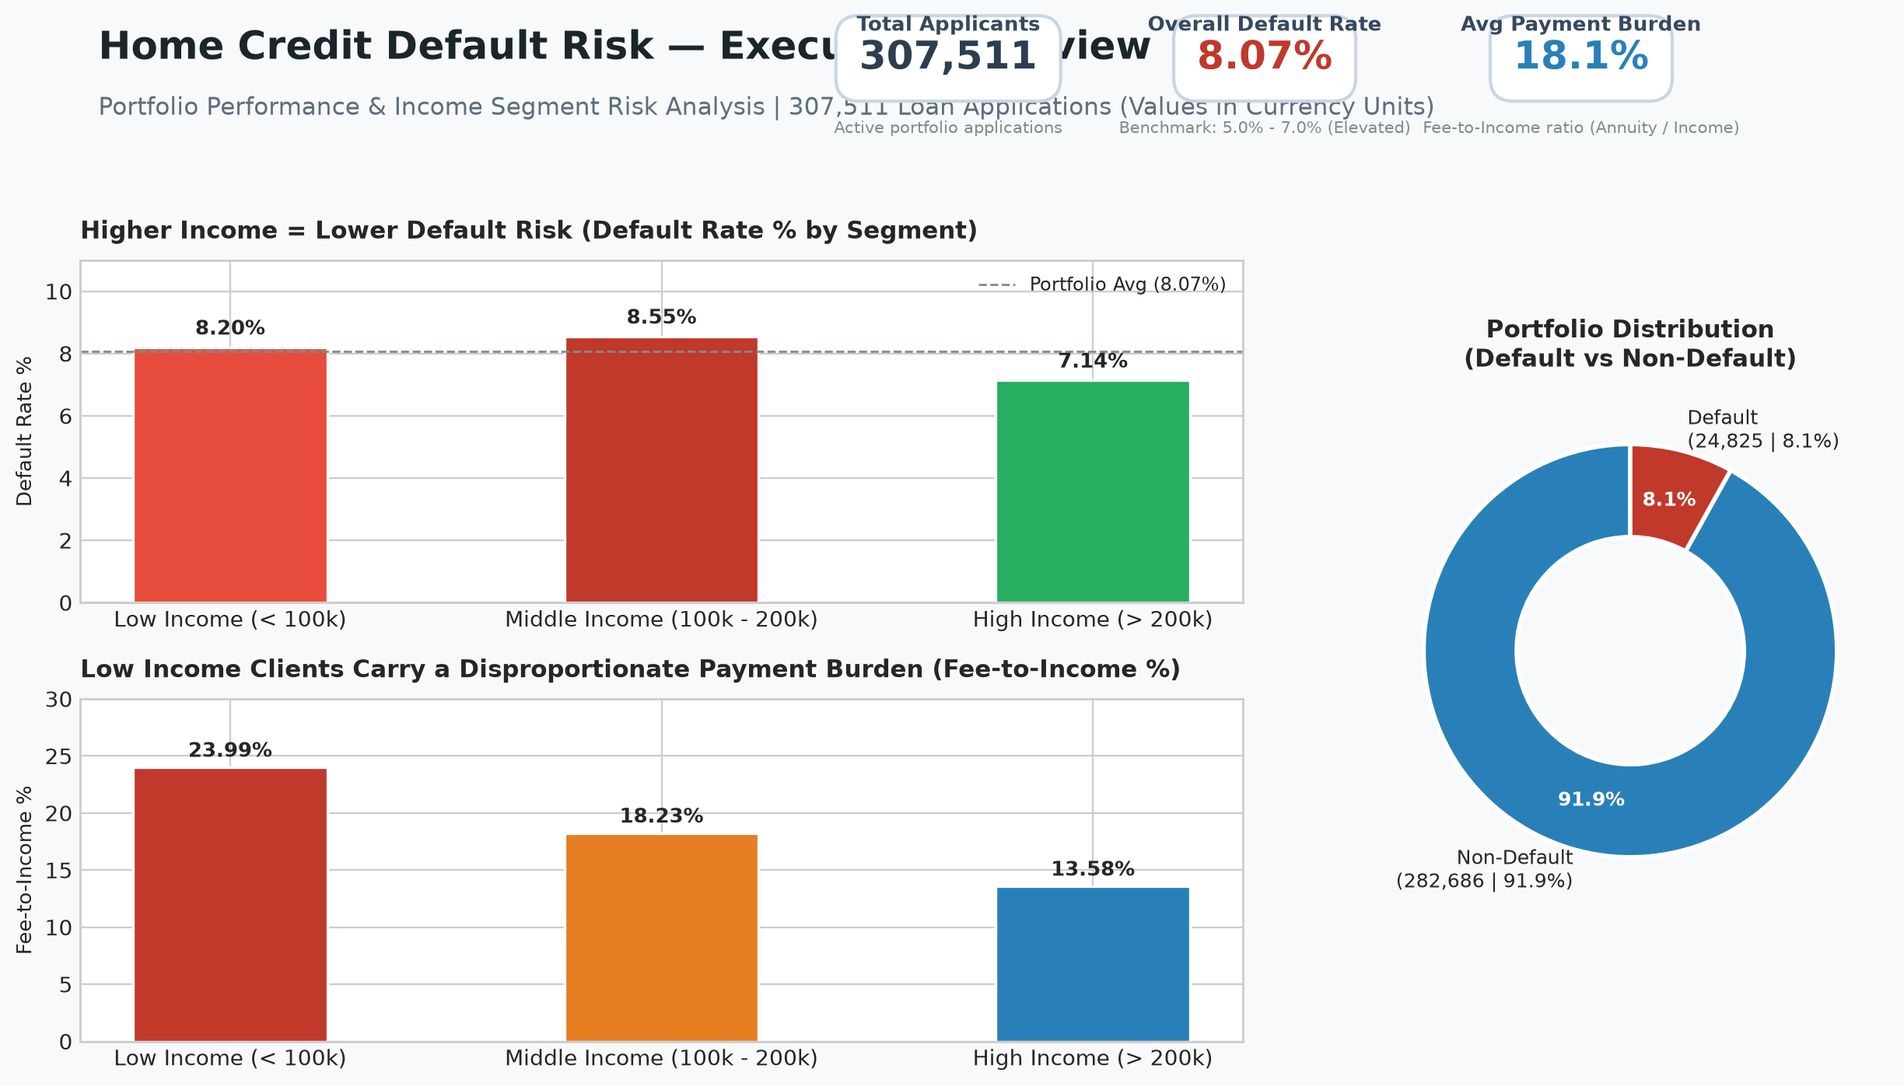
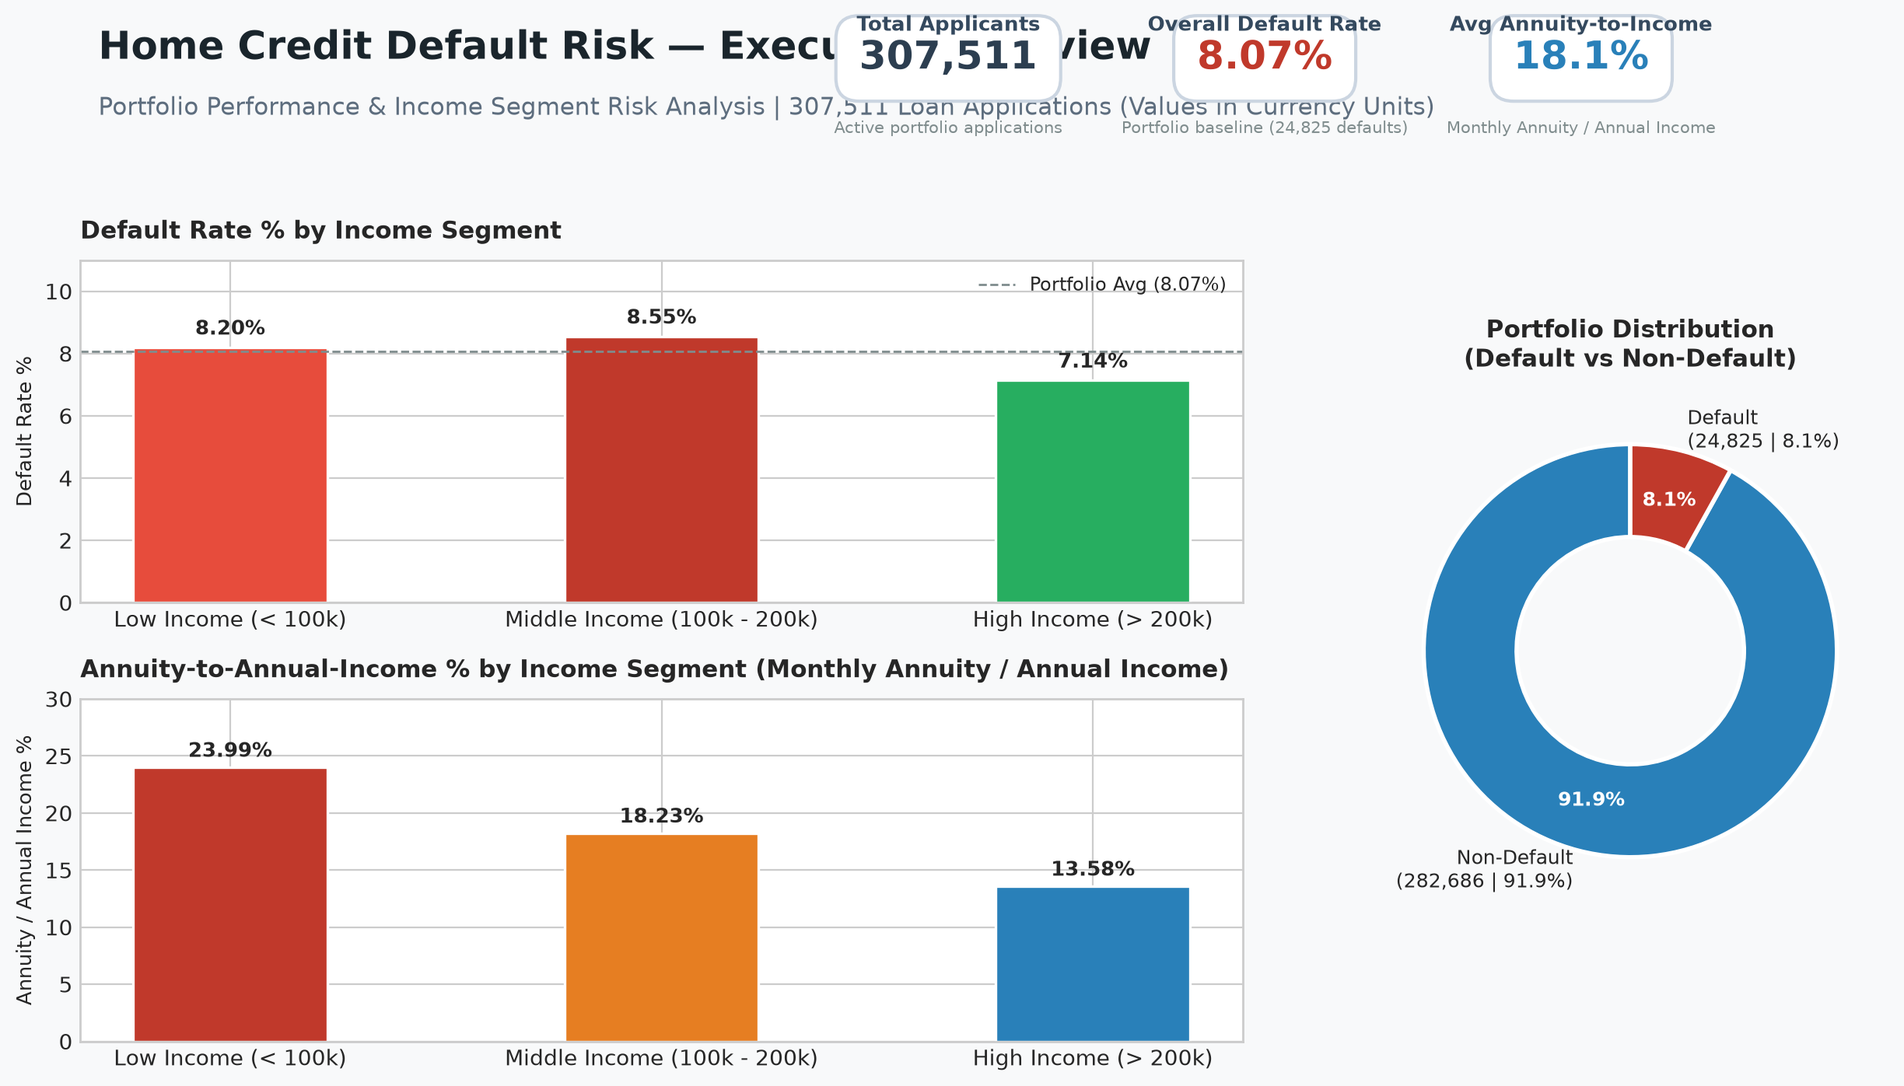
fix: restore attribution, clarify Annuity-to-Annual-Income periodicity, and remove unsourced benchmark claims

diff --git a/README.md b/README.md
@@ -32,7 +32,7 @@ An end-to-end descriptive and diagnostic credit risk analytics project evaluatin
 ## 1. Business Problem & Analytical Objectives
 
 ### Business Problem
-A non-bank financial institution providing consumer credit to underbanked applicants experiences an elevated portfolio default rate of **8.07%** (significantly above typical retail banking benchmarks of 5.0%–7.0%). Blanket underwriting criteria fail to differentiate between safe applicants and borrowers facing structural debt service distress. 
+A non-bank financial institution providing consumer credit to underbanked applicants experiences an overall portfolio default rate of **8.07%** across 307,511 loan applications. Blanket underwriting criteria fail to differentiate between safe applicants and borrowers facing structural debt service distress. 
 
 ### Analytical Objectives
 1. **Benchmark Portfolio Quality:** Quantify default rate distributions and identify class imbalance across 307,511 active applications.
@@ -42,13 +42,14 @@ A non-bank financial institution providing consumer credit to underbanked applic
 
 ---
 
-## 2. Dataset Overview & Scope
+## 2. Dataset Overview & Project Lineage
 
 * **Source:** [Home Credit Default Risk (Kaggle Competition)](https://www.kaggle.com/competitions/home-credit-default-risk)
 * **Primary Table:** `application_train.csv` (307,511 rows × 122 columns)
 * **Target Metric:** `TARGET` (Binary: `0` = Loan repaid on time, `1` = Client encountered payment difficulty / defaulted)
 * **Monetary Units:** All monetary values (`AMT_INCOME_TOTAL`, `AMT_CREDIT`, `AMT_ANNUITY`, `AMT_GOODS_PRICE`) represent raw dataset currency units as provided in the source competition dataset.
-* **Author:** Mridul Rajgaria
+* **Project Lineage & Attribution:** Builds upon the exploratory workflow and Power BI dashboard structure originally conceived by **Estefania Marcel** ([tefimarcel/credit-risk-analysis](https://github.com/tefimarcel/credit-risk-analysis)). All analytical code, SQL queries, visualizations, and documentation in this repository have been independently refactored, extended, and standardized by Mridul Rajgaria.
+* **Maintainer:** Mridul Rajgaria
 
 ---
 
@@ -105,7 +106,7 @@ Borrower-Default-Risk-Analytics-on-Home-Credit-Data/
 * **Income Outliers:** Gross annual income ranges up to 117,000,000 units against a median of 147,150 units. To prevent distortions, analysis leverages categorizations (`Low`, `Middle`, `High`).
 
 ### Derived Financial Metrics
-* **`fee_to_income_pct`**: Monthly installment burden computed as `(AMT_ANNUITY / AMT_INCOME_TOTAL) * 100`.
+* **`fee_to_income_pct` (Annuity-to-Annual-Income Ratio):** Calculated as `(AMT_ANNUITY / AMT_INCOME_TOTAL) * 100`. Note on dataset periodicity: According to the official Home Credit data dictionary, `AMT_ANNUITY` represents the **monthly loan installment** while `AMT_INCOME_TOTAL` represents total declared **annual gross income**. This metric therefore evaluates the proportion of annual income required to service a single monthly installment.
 * **`income_segment`** (denominated in currency units):
   * Low Income: `< 100,000` (20.7% of borrowers)
   * Middle Income: `100,000 – 200,000` (50.7% of borrowers)
@@ -184,12 +185,12 @@ ORDER BY income_tier, default_rate_pct DESC;
 
 ### Default Rate & Payment Burden by Income Segment
 ![Income Segment Risk Analysis](images/income_segment_risk_analysis.png)
-* Low-income borrowers bear an average **fee-to-income ratio of 23.99%**, compared to only **13.58%** for high-income applicants.
+* Low-income borrowers exhibit an average **Annuity-to-Annual-Income ratio of 23.99%**, compared to only **13.58%** for high-income applicants.
 * Middle-income applicants generate the largest nominal volume of defaults (13,326 defaults; 8.55% default rate).
 
 ### Top Riskiest Occupations
 ![Top Riskiest Occupations](images/top_riskiest_occupations.png)
-* `Low-skill Laborers` display the highest default rate across the entire portfolio at **17.15%** (more than 2x the 8.07% benchmark).
+* `Low-skill Laborers` display the highest default rate across the entire portfolio at **17.15%** (more than 2x the 8.07% portfolio baseline).
 * `Drivers` (**11.33%**) and `Waiters/barmen staff` (**11.28%**) exhibit elevated default rates driven by volatile disposable income.
 
 ### Correlation Matrix of Key Risk Variables
@@ -207,15 +208,15 @@ The interactive Power BI file ([`dashboard/credit_risk_dashboard.pbix`](dashboar
 
 ### Page 1: Credit Risk Overview
 ![Illustrative Dashboard Layout Preview: Page 1 — Credit Risk Overview](images/dashboard_page1_overview.png)
-* **KPI Header:** Tracks Total Applicants (`307,511`), Overall Default Rate (`8.07%`), and Average Payment Burden (`18.1%`).
+* **KPI Header:** Tracks Total Applicants (`307,511`), Overall Default Rate (`8.07%`), and Average Annuity-to-Annual-Income Ratio (`18.1%`).
 * **Visuals:** Income segment default rates, payment burden breakdown, and target distribution donut chart.
 
 ### Page 2: Behavioral Risk Signals
 ![Illustrative Dashboard Layout Preview: Page 2 — Behavioral Risk Signals](images/dashboard_page2_behavioral_signals.png)
-* **Risk Stratification:** 10 riskiest occupations mapped against the 8.07% portfolio benchmark.
+* **Risk Stratification:** 10 riskiest occupations mapped against the 8.07% portfolio baseline.
 * **Credit Inquiries:** Default rates grouped by annual bureau inquiries (`0`, `1–3`, `4–6`, `7+`).
 
-> For full DAX calculations and data refresh steps, refer to [dashboard/README.md](dashboard/README.md).
+> For full DAX calculations, data refresh steps, and an independent clean-room build guide, refer to [dashboard/README.md](dashboard/README.md).
 
 ---
 
@@ -223,9 +224,9 @@ The interactive Power BI file ([`dashboard/credit_risk_dashboard.pbix`](dashboar
 
 | Metric / Segment | Empirical Result | Business Implication |
 | :--- | :--- | :--- |
-| **Portfolio Default Rate** | **8.07%** (24,825 defaults) | Above industry baseline (5%–7%), requiring portfolio risk management. |
-| **Low-Income Payment Burden** | **24.0%** fee-to-income ratio | Nearly 1.8x the debt service burden of high-income clients (13.6%). |
-| **Defaulter Loan Characteristics** | Defaulters borrow **557,779 vs 602,648 units** | Defaults correlate with payment strain relative to income, not principal size. |
+| **Portfolio Default Rate** | **8.07%** (24,825 defaults) | Foundational portfolio baseline across 307,511 active applications. |
+| **Low-Income Payment Burden** | **24.0%** Annuity-to-Annual-Income | One monthly payment consumes nearly a quarter of annual income (vs. 13.6% for high-income clients). |
+| **Defaulter Loan Characteristics** | Defaulters borrow **557,779 vs 602,648 units** | Defaults correlate with payment strain relative to income, not principal size alone. |
 | **Highest Risk Occupation** | Low-skill Laborers: **17.15% default** | More than double the portfolio baseline (2.12x risk multiplier). |
 | **Credit Bureau Search Velocity** | 7+ inquiries: **9.28% default rate** | 30.1% higher risk than borrowers with 0 inquiries (7.13%). |
 | **Contract Type Variance** | Cash loans: **8.35%** vs Revolving: **5.48%** | Selection bias: revolving loans apply stricter pre-screening filters. |
@@ -286,8 +287,9 @@ jupyter notebook notebooks/credit_risk_analysis.ipynb
 
 ---
 
-## 13. License & Scope of Terms
+## 13. License, Attribution & Scope of Terms
 
-* **Source Code & Documentation:** All analytical code, SQL queries, Jupyter notebook source code, and written documentation in this repository are distributed under the **[MIT License](LICENSE)**.
-* **Dataset Terms:** The underlying Home Credit Default Risk dataset is governed by the [Kaggle Competition Rules and Terms of Use](https://www.kaggle.com/competitions/home-credit-default-risk/rules). This repository does not redistribute or convey proprietary rights to the raw competition data.
-* **Author:** **Mridul Rajgaria** ([GitHub](https://github.com/mridulrajgaria))
+* **Source Code & Documentation:** All analytical code, SQL queries, Jupyter notebook source code, and written documentation authored by Mridul Rajgaria in this repository are distributed under the **[MIT License](LICENSE)**.
+* **Upstream Lineage & Attribution:** Conceptual exploratory workflow and Power BI structure created by **Estefania Marcel** ([tefimarcel/credit-risk-analysis](https://github.com/tefimarcel/credit-risk-analysis)). The original repository was published without an explicit root open source license. The file `dashboard/credit_risk_dashboard.pbix` is preserved for non-commercial educational review with full attribution; independent recreation specifications are documented in [`dashboard/README.md`](dashboard/README.md).
+* **Dataset Terms:** The underlying Home Credit Default Risk dataset is governed by the [Kaggle Competition Rules and Terms of Use](https://www.kaggle.com/competitions/home-credit-default-risk/rules). This repository does not redistribute or convey proprietary rights to raw competition data.
+* **Author & Maintainer:** **Mridul Rajgaria** ([GitHub](https://github.com/mridulrajgaria))

diff --git a/dashboard/README.md b/dashboard/README.md
@@ -2,7 +2,7 @@
 
 ## Executive Summary
 
-The interactive Power BI dashboard (`credit_risk_dashboard.pbix`) provides executive-level monitoring and diagnostic drill-downs into the credit performance of **307,511 loan applications** from Home Credit.
+The Power BI dashboard (`credit_risk_dashboard.pbix`) provides interactive monitoring and diagnostic drill-downs into the credit risk performance of **307,511 loan applications** from the Home Credit Default Risk dataset.
 
 It is structured into two core analytical views:
 1. **Page 1: Credit Risk Overview** — High-level portfolio KPIs, default distribution, and income segment payment-burden metrics.
@@ -12,7 +12,7 @@ It is structured into two core analytical views:
 
 ## Dashboard Architecture & Views
 
-> **Note on Visual Previews:** The figures below are **illustrative layout previews** reconstructed directly from the Power BI report specifications, data model schema, and underlying portfolio metrics. The live, interactive report is preserved in [`credit_risk_dashboard.pbix`](credit_risk_dashboard.pbix). All monetary quantities reflect dataset currency units as provided in the source data.
+> **Note on Visual Previews:** The figures below are **illustrative layout previews** reconstructed directly from the Power BI report specifications, data model schema, and underlying portfolio metrics. The live, interactive report is preserved in [`credit_risk_dashboard.pbix`](credit_risk_dashboard.pbix). All monetary quantities reflect dataset currency units as provided in the source competition data.
 
 ### Page 1: Credit Risk Overview
 ![Illustrative Dashboard Layout Preview: Page 1 — Credit Risk Overview](../images/dashboard_page1_overview.png)
@@ -20,18 +20,18 @@ It is structured into two core analytical views:
 #### Visual Elements:
 * **KPI Card 1: Total Applicants**
   * *Metric:* `307,511`
-  * *Business Context:* Total evaluated portfolio population.
+  * *Context:* Total evaluated active portfolio loan applications.
 * **KPI Card 2: Overall Default Rate**
-  * *Metric:* `8.07%` (24,825 defaulters)
-  * *Business Context:* Baseline benchmark (exceeds typical prime retail banking benchmarks of 5.0% - 7.0%).
-* **KPI Card 3: Average Payment Burden**
-  * *Metric:* `18.1%` (Fee-to-Income / Annuity-to-Income)
-  * *Business Context:* Average share of monthly income dedicated to servicing the loan installment.
+  * *Metric:* `8.07%` (24,825 defaults)
+  * *Context:* Observed baseline portfolio default rate across all applicants.
+* **KPI Card 3: Avg Annuity-to-Annual-Income Ratio**
+  * *Metric:* `18.1%` (Calculated as `AMT_ANNUITY / AMT_INCOME_TOTAL * 100`)
+  * *Context:* Evaluates the size of a single monthly installment (`AMT_ANNUITY`) relative to total annual income (`AMT_INCOME_TOTAL`).
 * **Clustered Bar Chart: Default Rate % by Income Segment**
   * Low Income (< 100,000): **8.20%**
   * Middle Income (100,000 - 200,000): **8.55%**
   * High Income (> 200,000): **7.14%**
-* **Clustered Bar Chart: Payment Burden (Fee-to-Income %) by Income Segment**
+* **Clustered Bar Chart: Annuity-to-Annual-Income % by Income Segment**
   * Low Income: **23.99%**
   * Middle Income: **18.23%**
   * High Income: **13.58%**
@@ -46,7 +46,7 @@ It is structured into two core analytical views:
 
 #### Visual Elements:
 * **Horizontal Bar Chart: Top 10 Riskiest Occupations by Default Rate %**
-  * Includes a benchmark reference line at **8.07%** (portfolio average).
+  * Includes a benchmark reference line at **8.07%** (portfolio baseline).
   * *Low-skill Laborers:* **17.15%** (2.1x portfolio baseline)
   * *Drivers:* **11.33%**
   * *Waiters/barmen staff:* **11.28%**
@@ -60,7 +60,20 @@ It is structured into two core analytical views:
   * *No Inquiries (0):* **7.13%** (71,801 clients)
   * *Low (1–3):* **7.74%** (147,225 clients)
   * *Medium (4–6):* **8.42%** (39,733 clients)
-  * *High (7+):* **9.28%** (7,233 clients — 30% default surge over 0 inquiries)
+  * *High (7+):* **9.28%** (7,233 clients)
+
+---
+
+## Understanding the Payment-Burden Metric
+
+A critical technical distinction in this dataset involves the definition of `AMT_ANNUITY` and `AMT_INCOME_TOTAL`:
+* **`AMT_INCOME_TOTAL`**: Represents total declared **annual income** of the applicant.
+* **`AMT_ANNUITY`**: Represents the loan annuity, which in the Home Credit consumer lending dataset is the **monthly loan installment** due.
+* **Metric Definition:** The ratio `(AMT_ANNUITY / AMT_INCOME_TOTAL) * 100` measures **one monthly installment as a percentage of total annual income**.
+* **Interpretation:** 
+  * For low-income borrowers, an average ratio of **23.99%** indicates that **a single monthly payment consumes nearly a quarter of their annual income**. 
+  * If annualized (multiplying the monthly annuity by 12), the annual debt service obligation would be `23.99% * 12 = 287.9%` of annual income if sustained for 12 months, highlighting acute debt overhang.
+  * To avoid misleading labeling, this metric is formally designated as the **Annuity-to-Annual-Income Ratio** rather than a simple monthly budget share.
 
 ---
 
@@ -82,7 +95,7 @@ CALCULATE(
 Default Rate % = 
 DIVIDE([Total Defaults], [Total Clients], 0) * 100
 
-Avg Fee to Income % = 
+Avg Annuity to Income % = 
 AVERAGE('credit_risk_powerbi'[fee_to_income_pct])
 
 Avg Credit Amount = 
@@ -121,15 +134,23 @@ SWITCH(
 
 ---
 
-## Technical Specifications & How to Open
+## Attribution, Licensing & Independent Build Guide
 
-* **File:** `credit_risk_dashboard.pbix`
-* **File Size:** ~6.4 MB (contains embedded VertiPaq database with the processed dataset)
-* **Compatibility:** Microsoft Power BI Desktop (Windows 10/11)
-* **Data Refresh Instructions:**
-  1. Open `dashboard/credit_risk_dashboard.pbix` in Microsoft Power BI Desktop.
-  2. If repointing to a newly generated `credit_risk_powerbi.csv`:
-     * Go to **Home > Transform Data > Data Source Settings**.
-     * Select the file source and update the path to your local `data/credit_risk_powerbi.csv`.
-     * Click **Apply Changes**.
-  3. All visuals, DAX measures, and filters will automatically update.
+### Upstream Attribution
+The dashboard design concept, KPI cards, and two-page visual structure were originally conceived by **Estefania Marcel** ([tefimarcel/credit-risk-analysis](https://github.com/tefimarcel/credit-risk-analysis)). The original repository was published without an explicit root open-source license. The file `credit_risk_dashboard.pbix` is preserved here for non-commercial educational review and demonstration with attribution.
+
+### Independent Dashboard Recreation (Clean-Room Workflow)
+For users who prefer to build or deploy the dashboard completely independently without redistributing third-party binaries:
+1. **Generate Data Source:**
+   * Run the data preparation cell in [`notebooks/credit_risk_analysis.ipynb`](../notebooks/credit_risk_analysis.ipynb).
+   * This exports `data/credit_risk_powerbi.csv` (307,511 rows containing all necessary attributes and calculated columns).
+2. **Import into Power BI Desktop:**
+   * Open Power BI Desktop (free download for Windows).
+   * Select **Get Data > Text/CSV** and select `credit_risk_powerbi.csv`.
+   * Click **Load**.
+3. **Add DAX Measures:**
+   * In the modeling tab, create the measures listed in the [DAX Measures](#dax-measures--calculated-columns) section above.
+4. **Recreate Visuals:**
+   * **Page 1:** Add 3 KPI Cards (`Total Clients`, `Default Rate %`, `Avg Annuity to Income %`), two clustered bar charts for `Default Rate %` and `Avg Annuity to Income %` by `income_segment`, and a donut chart for `default_label`.
+   * **Page 2:** Add a horizontal bar chart of `Default Rate %` by `OCCUPATION_TYPE` (top 10 filtered with constant reference line at 8.07%) and a column chart of `Default Rate %` by `inquiries_tier`.
+5. **Save:** Save the file as your own independent `.pbix` report.

diff --git a/reports/key_findings.md b/reports/key_findings.md
@@ -9,7 +9,7 @@
 
 ## 1. Executive Summary
 
-This report synthesizes empirical findings from a credit risk evaluation of **307,511 consumer loan applications**. The overall portfolio exhibits an **8.07% default rate** (24,825 non-performing loans), which sits substantially above conventional prime retail banking benchmarks (5.0% – 7.0%). 
+This report synthesizes empirical findings from a credit risk evaluation of **307,511 consumer loan applications**. The overall portfolio exhibits an **8.07% default rate** (24,825 non-performing loans), serving as the baseline benchmark against which all borrower sub-segments are analyzed.
 
 The primary business challenge is that uniform loan origination standards expose the institution to outsized credit losses, particularly among low-income earners, specific vulnerable labor occupations, and borrowers demonstrating repeated credit-seeking stress.
 
@@ -25,17 +25,20 @@ By applying structured SQL segmentation, debt-burden ratio analysis, and behavio
 * **Defaulted Loans (`TARGET = 1`):** 24,825 (8.07%)
 * **Diagnostic Implication:** The strong 92:8 class imbalance underscores that aggregate performance metrics can mask pockets of severe risk. Credit scoring cannot rely on naive approval rules; granular policy cutoffs are required.
 
-### Finding 2: The Payment-Burden Paradox Across Income Tiers
-Analysis of monthly debt servicing relative to annual gross income (`fee_to_income_pct = (AMT_ANNUITY / AMT_INCOME_TOTAL) * 100`) reveals an acute structural vulnerability across income segments:
+### Finding 2: Payment Burden: Annuity-to-Annual-Income Dynamics
+A critical dimension of borrower capacity is evaluating regular loan installments against declared income. In the Home Credit dataset schema:
+* `AMT_INCOME_TOTAL` represents total declared **annual income**.
+* `AMT_ANNUITY` represents the **monthly loan installment** amount.
+* The ratio `(AMT_ANNUITY / AMT_INCOME_TOTAL) * 100` calculates the **Annuity-to-Annual-Income Ratio** (the percentage of annual income absorbed by a single monthly payment).
 
-| Income Tier | Annual Income Range (Units) | Borrower Volume | Default Rate | Avg Fee-to-Income % | Avg Loan Size (Units) |
+| Income Tier | Annual Income Range (Units) | Borrower Volume | Default Rate | Avg Annuity-to-Annual-Income % | Avg Loan Size (Units) |
 | :--- | :--- | :--- | :--- | :--- | :--- |
 | **Low Income** | < 100,000 | 63,698 (20.7%) | **8.20%** | **23.99%** | 341,200 |
 | **Middle Income**| 100,000 – 200,000 | 155,898 (50.7%) | **8.55%** | **18.23%** | 604,800 |
 | **High Income** | > 200,000 | 87,915 (28.6%) | **7.14%** | **13.58%** | 775,400 |
 
-* **Empirical Takeaway:** Low-income borrowers dedicate **24.0%** of their annual income to loan installments—nearly **1.8x the debt service burden** of high-income peers (13.6%). 
-* Defaulters receive lower absolute credit amounts on average (557,779 units vs 602,648 units for non-defaulters) yet pay virtually identical monthly annuities (~26,482 vs ~27,164). This observed association indicates that defaults correlate with **disproportionate monthly installment strain**, rather than gross borrowing size alone.
+* **Empirical Takeaway:** For low-income borrowers, a single monthly loan installment equals **24.0% of their total annual income**—nearly **1.8x the ratio** of high-income peers (13.6%). 
+* Defaulters receive lower absolute credit amounts on average (557,779 units vs 602,648 units for non-defaulters) yet pay virtually identical monthly annuities (~26,482 vs ~27,164). This confirms that default risk correlates with **disproportionate monthly installment strain relative to earnings capacity**, rather than gross loan principal alone.
 
 ### Finding 3: Occupation Category as a Critical Risk Stratifier
 When segmenting by verified occupation, default rates vary across a wide spectrum from **1.7% to 17.2%**:

diff --git a/data/README.md b/data/README.md
@@ -67,7 +67,7 @@ To reproduce the analysis locally:
 
 During exploratory analysis and SQL segmentation, the following fields are engineered:
 
-* **`fee_to_income_pct`**: Monthly payment burden calculated as `(AMT_ANNUITY / AMT_INCOME_TOTAL) * 100`.
+* **`fee_to_income_pct`**: Annuity-to-Annual-Income Ratio calculated as `(AMT_ANNUITY / AMT_INCOME_TOTAL) * 100`. In this dataset, `AMT_ANNUITY` denotes the monthly installment while `AMT_INCOME_TOTAL` denotes annual gross income; this metric evaluates a single monthly installment relative to annual income.
 * **`income_segment`**: Categorical tier based on `AMT_INCOME_TOTAL` (in dataset currency units):
   * `Low Income`: < 100,000
   * `Middle Income`: 100,000 to 200,000
